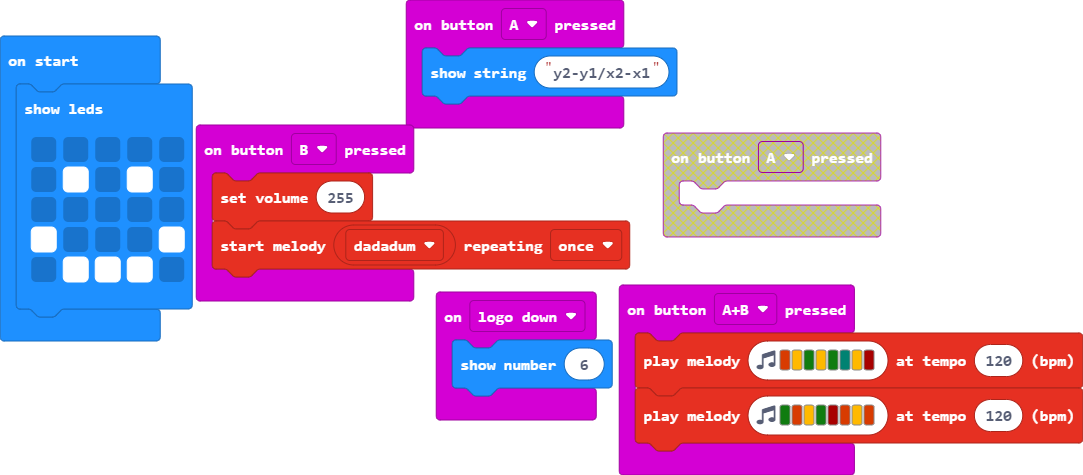
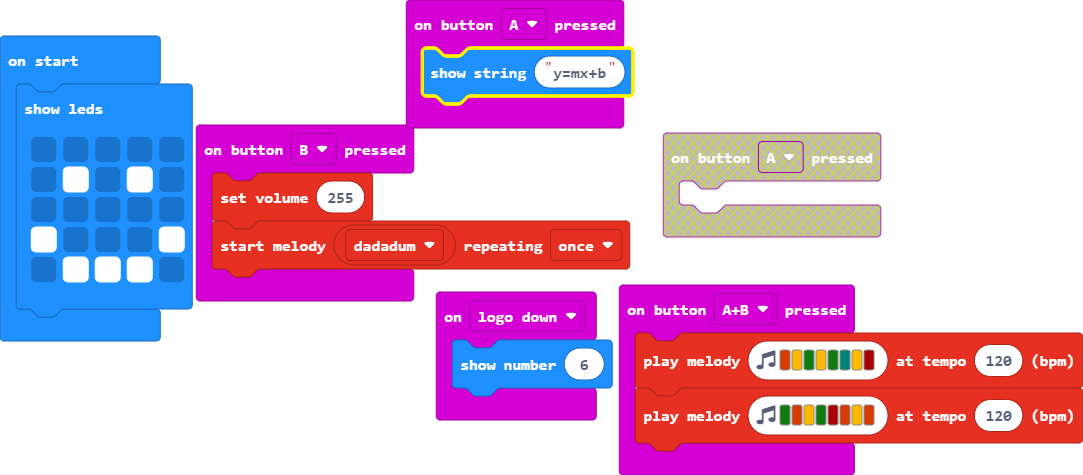
Update main.blocks, main.ts

Changed region(s): [[0.3657, 0.0884, 0.6399, 0.2063], [0.3961, 0.2063, 0.4266, 0.2358]]

diff --git a/main.ts b/main.ts
@@ -1,5 +1,5 @@
 input.onButtonPressed(Button.A, function () {
-    basic.showString("y2-y1/x2-x1")
+    basic.showString("y=mx+b")
 })
 input.onButtonPressed(Button.AB, function () {
     music.playMelody("B A G A G F A C5 ", 120)
